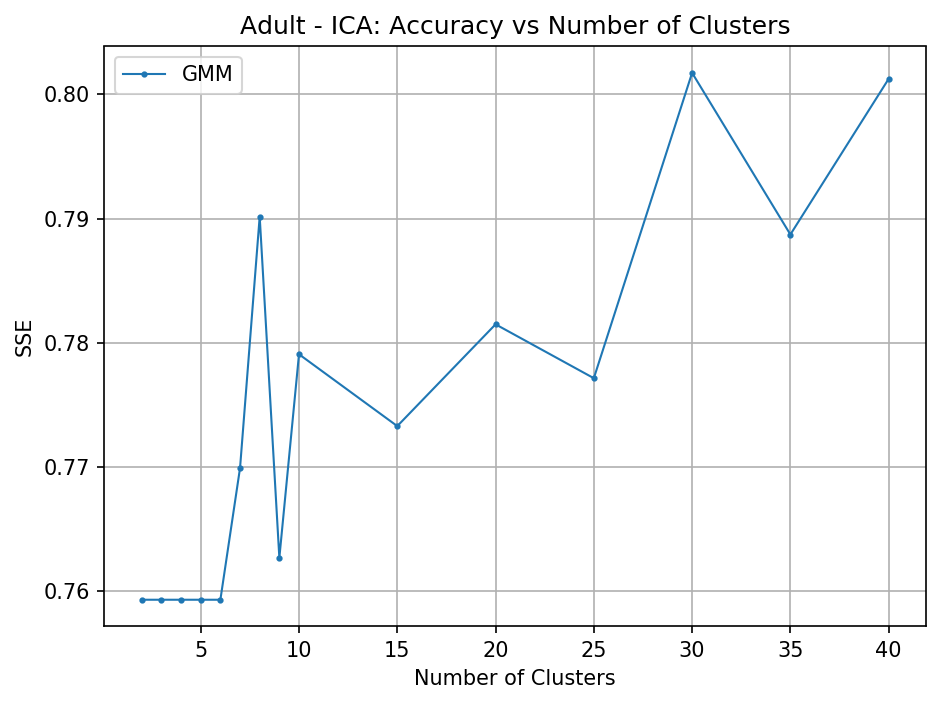
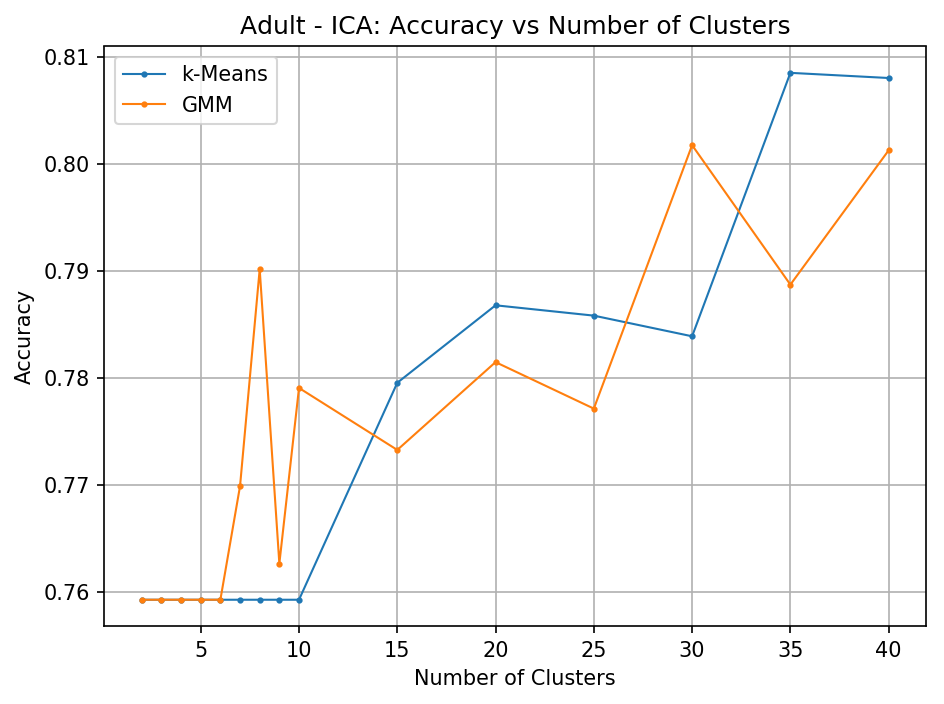
Corrected bug in generation of accuracy graphs

diff --git a/assignment3/experiments/plotting.py b/assignment3/experiments/plotting.py
@@ -544,7 +544,7 @@ def read_and_plot_acc(problem, file, output_dir):
 
     title = '{} - {}: Accuracy vs Number of Clusters'.format(ds_readable_name, problem['name'])
     df = pd.read_csv(file).set_index('k')
-    p = plot_sse(title, df)
+    p = plot_acc(title, df)
     p = watermark(p)
     p.savefig(
         '{}/{}/{}_acc.png'.format(output_dir, problem['name'], ds_name),
